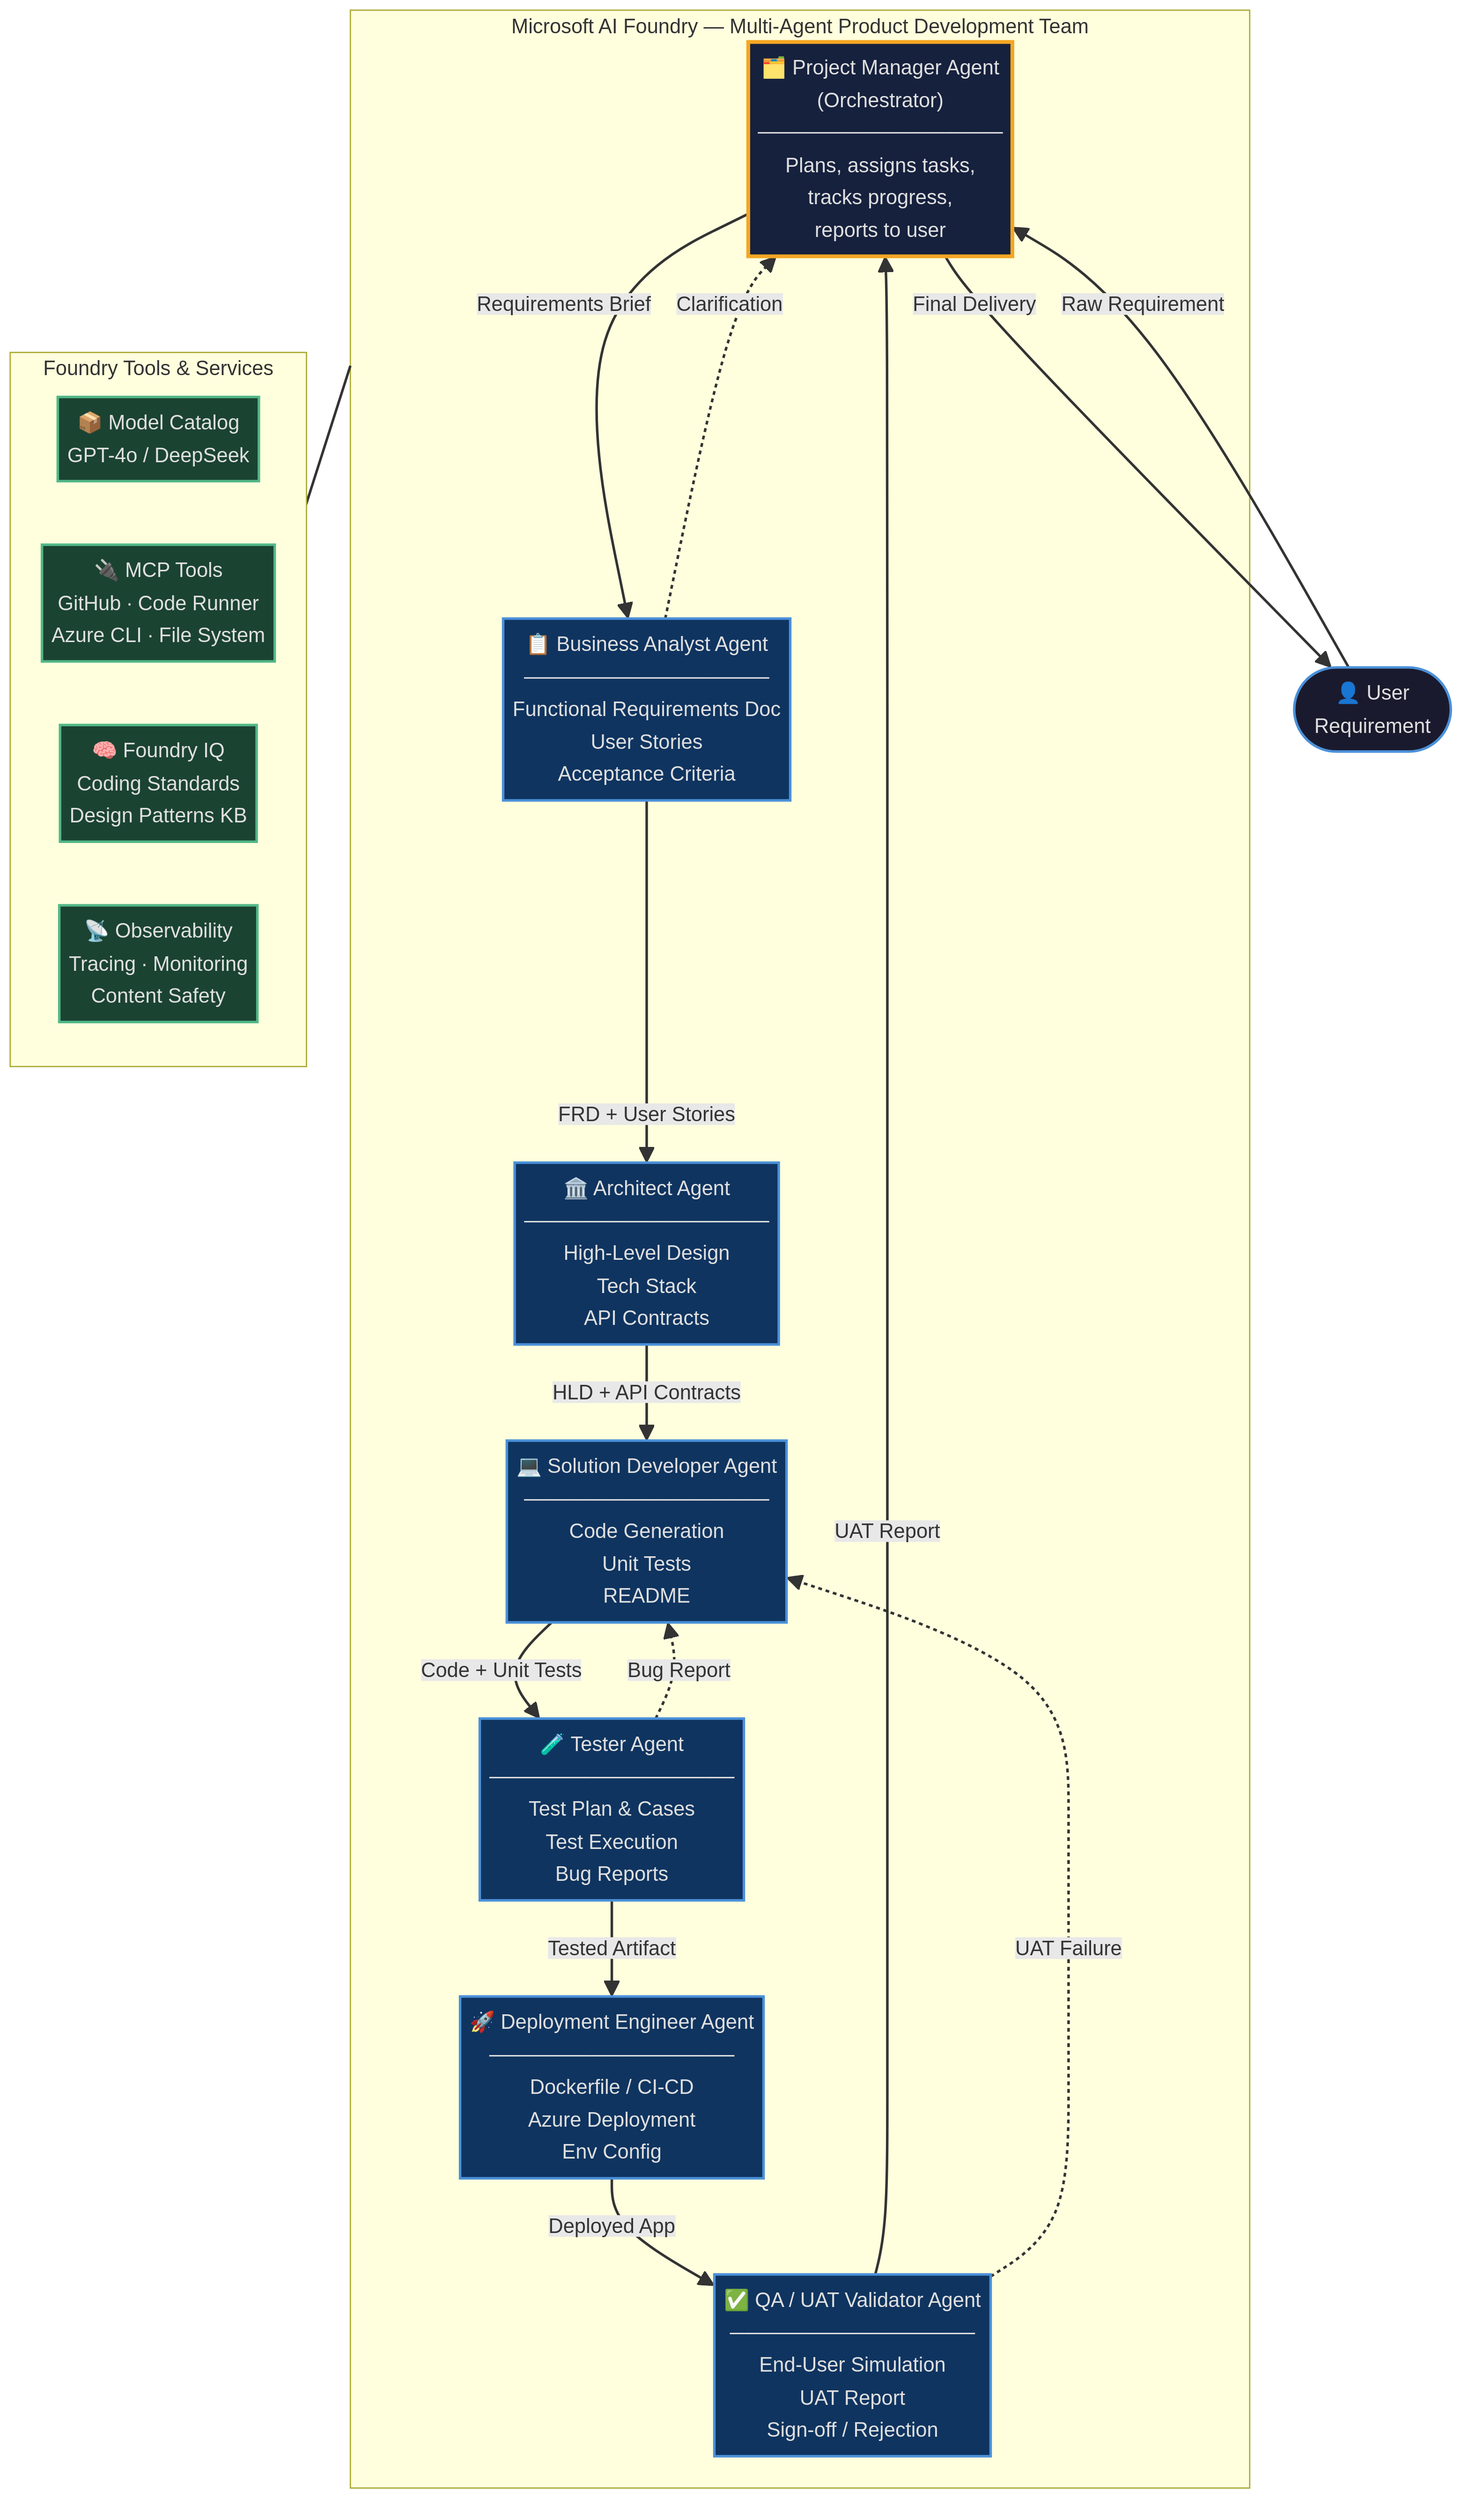
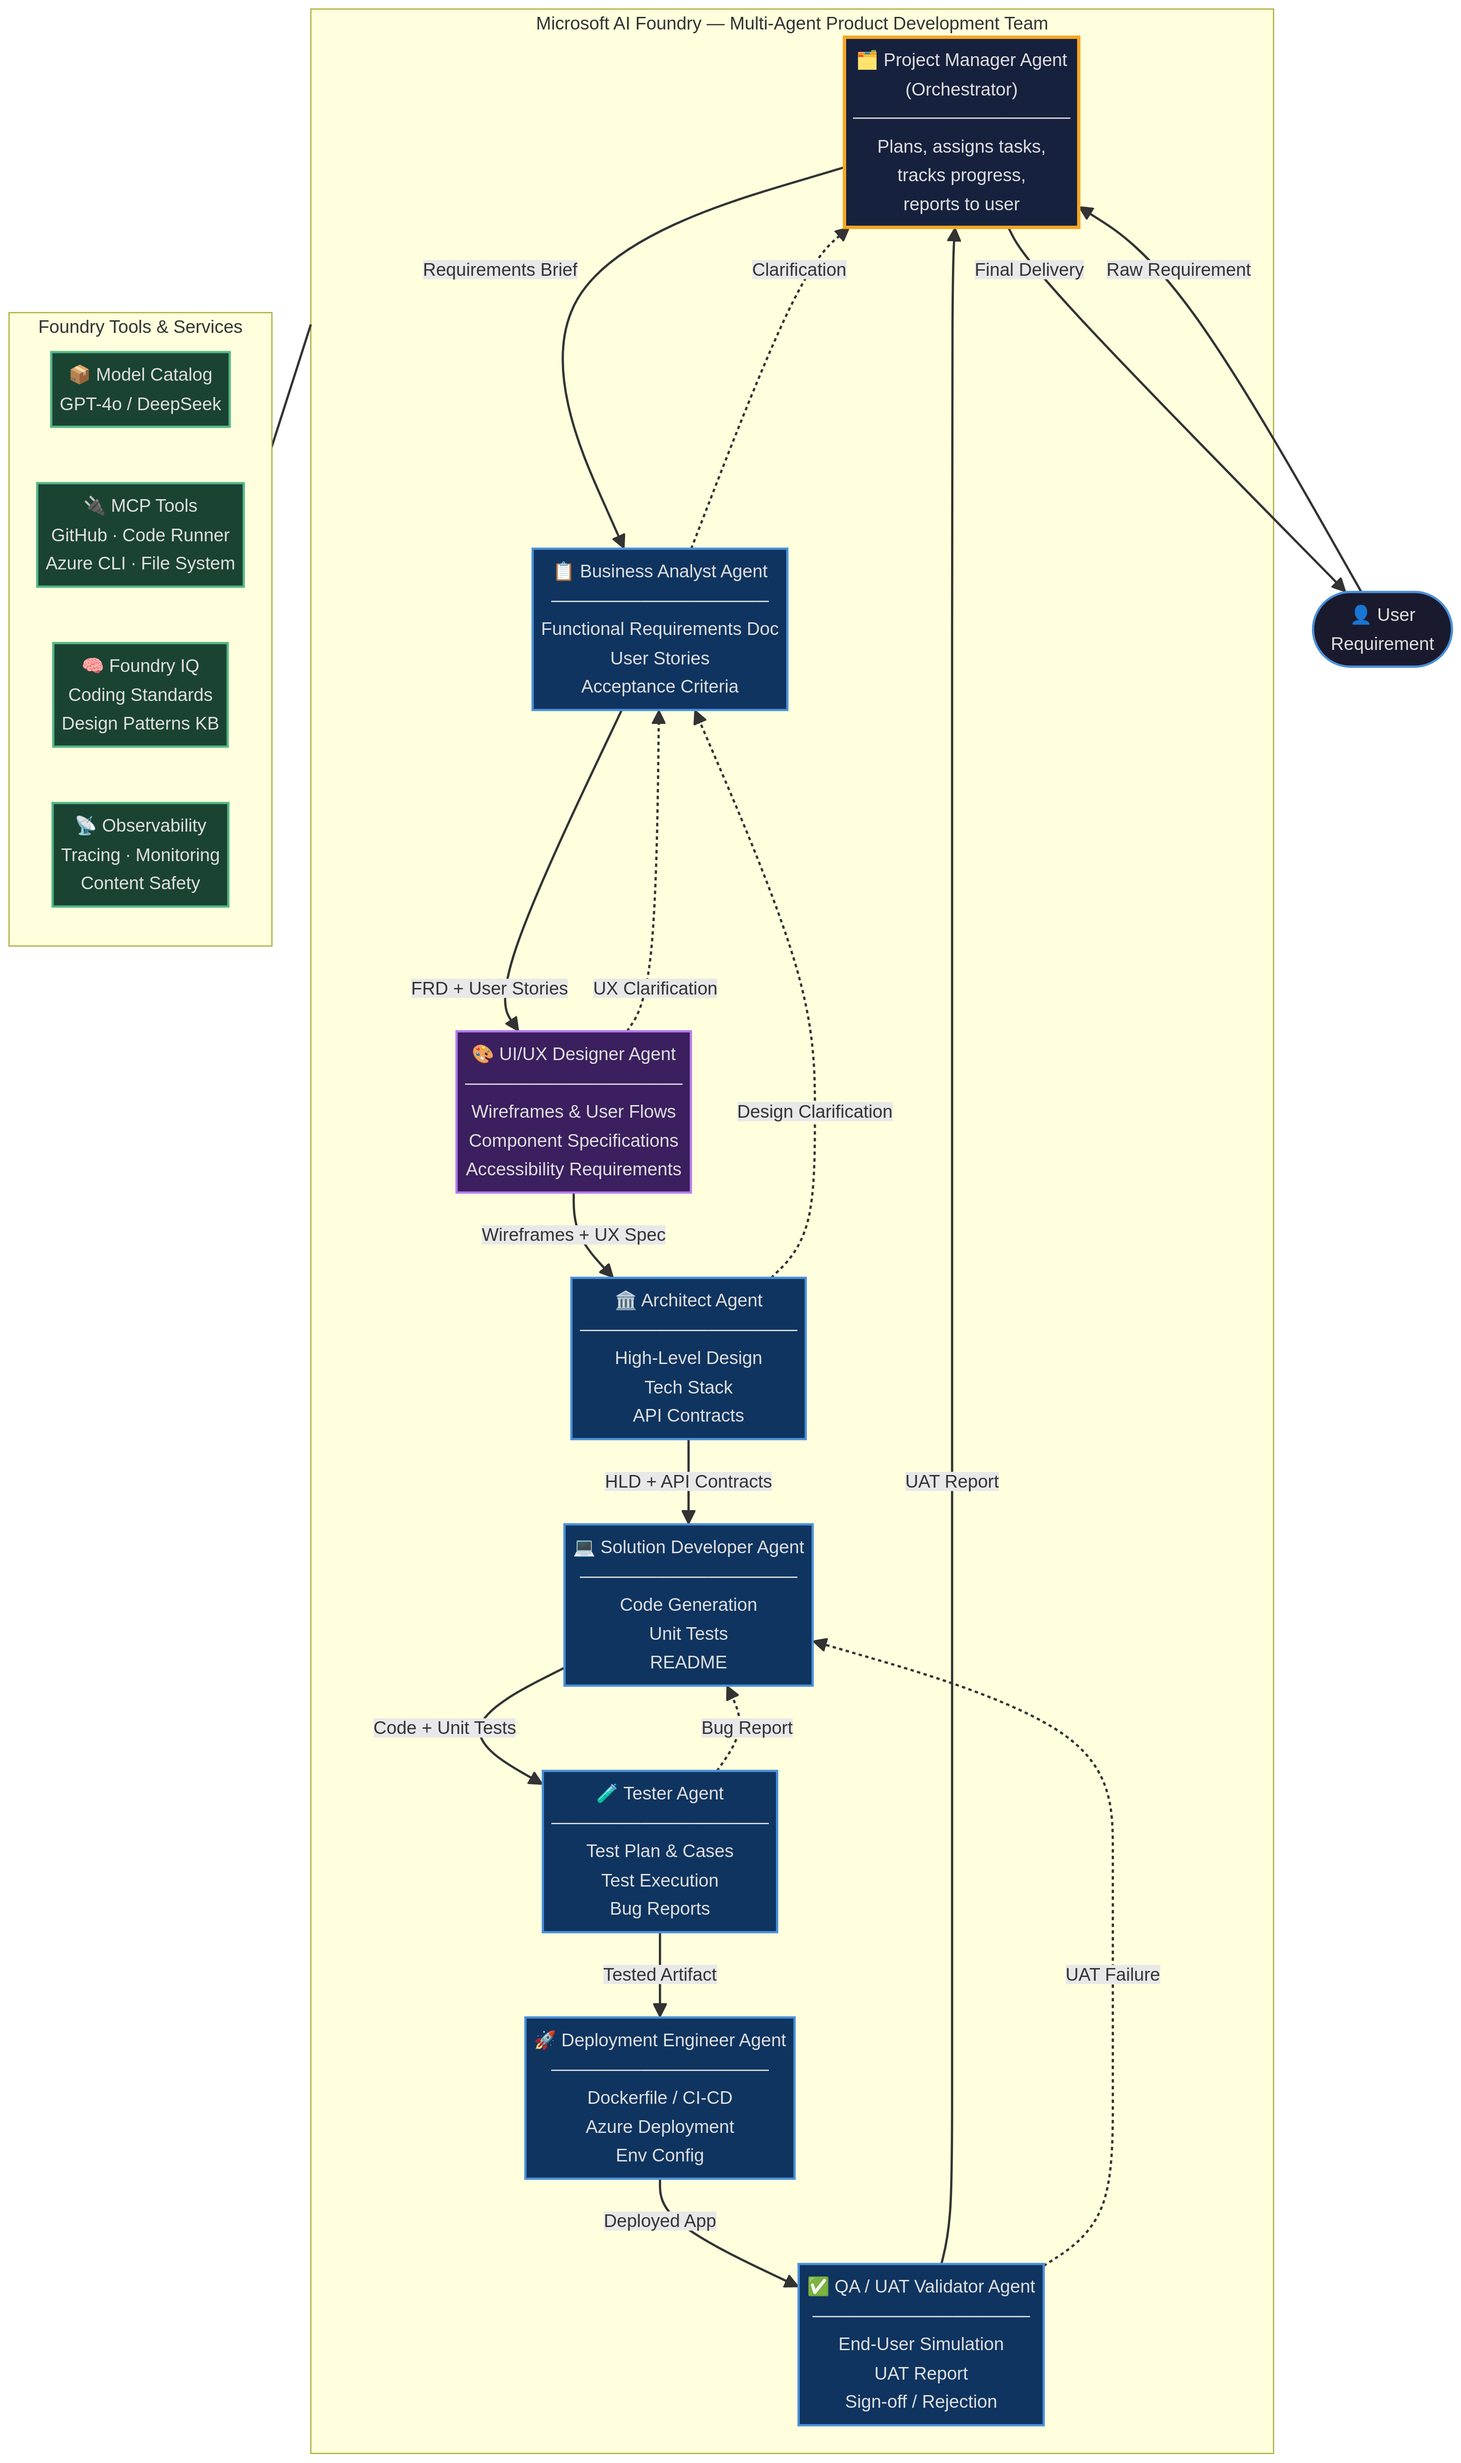
feat: add UI/UX Designer as agent 3 — update architecture diagram and README

diff --git a/README.md b/README.md
@@ -15,15 +15,16 @@ This use case perfectly exercises Microsoft AI Foundry's advanced capabilities, 
 
 ### The Virtual Team
 
-| Agent Role | Responsibility | Artifacts Produced |
-| :--- | :--- | :--- |
-| **Project Manager (PM)** | The Orchestrator. Receives the user requirement, plans the workflow, assigns tasks to other agents, and tracks progress. | Project Charter, Status Updates |
-| **Business Analyst (BA)** | Clarifies the raw requirement and translates it into actionable development tasks. | Functional Requirements (FRD), User Stories |
-| **Architect** | Takes the requirements and designs the technical solution, selecting the stack and defining APIs. | High-Level Design (HLD), API Contracts |
-| **Solution Developer** | Writes the actual code based on the Architect's design and BA's user stories. | Source Code, Unit Tests, README |
-| **Tester** | Executes the code and runs tests against the Acceptance Criteria to ensure quality. | Test Plan, Bug Reports |
-| **Deployment Engineer** | Packages the tested code for deployment and writes infrastructure scripts. | Dockerfile, CI/CD YAML |
-| **QA / UAT Validator** | Performs final User Acceptance Testing from an end-user perspective before final sign-off. | UAT Report, Sign-off |
+| # | Agent Role | Responsibility | Artifacts Produced |
+| :--- | :--- | :--- | :--- |
+| 1 | **Project Manager (PM)** | The Orchestrator. Receives the user requirement, plans the workflow, assigns tasks to other agents, and tracks progress. | Project Charter, Status Updates |
+| 2 | **Business Analyst (BA)** | Clarifies the raw requirement and translates it into actionable development tasks. | Functional Requirements (FRD), User Stories, Acceptance Criteria |
+| 3 | **UI/UX Designer** | Translates user stories into wireframes, user flows, and component specifications. Defines accessibility requirements. | Wireframes, User Flows, Component Spec |
+| 4 | **Architect** | Takes the UX spec and requirements to design the technical solution, selecting the stack and defining APIs. | High-Level Design (HLD), API Contracts, Data Models |
+| 5 | **Solution Developer** | Writes the actual code based on the Architect's design, BA's user stories, and UX specifications. | Source Code, Unit Tests, README |
+| 6 | **Tester** | Executes the code and runs tests against both functional and UX Acceptance Criteria to ensure quality. | Test Plan, Bug Reports |
+| 7 | **Deployment Engineer** | Packages the tested code for deployment and writes infrastructure scripts. | Dockerfile, CI/CD YAML |
+| 8 | **QA / UAT Validator** | Performs final User Acceptance Testing from an end-user perspective before final sign-off. | UAT Report, Sign-off |
 
 ### Architecture Diagram
 
